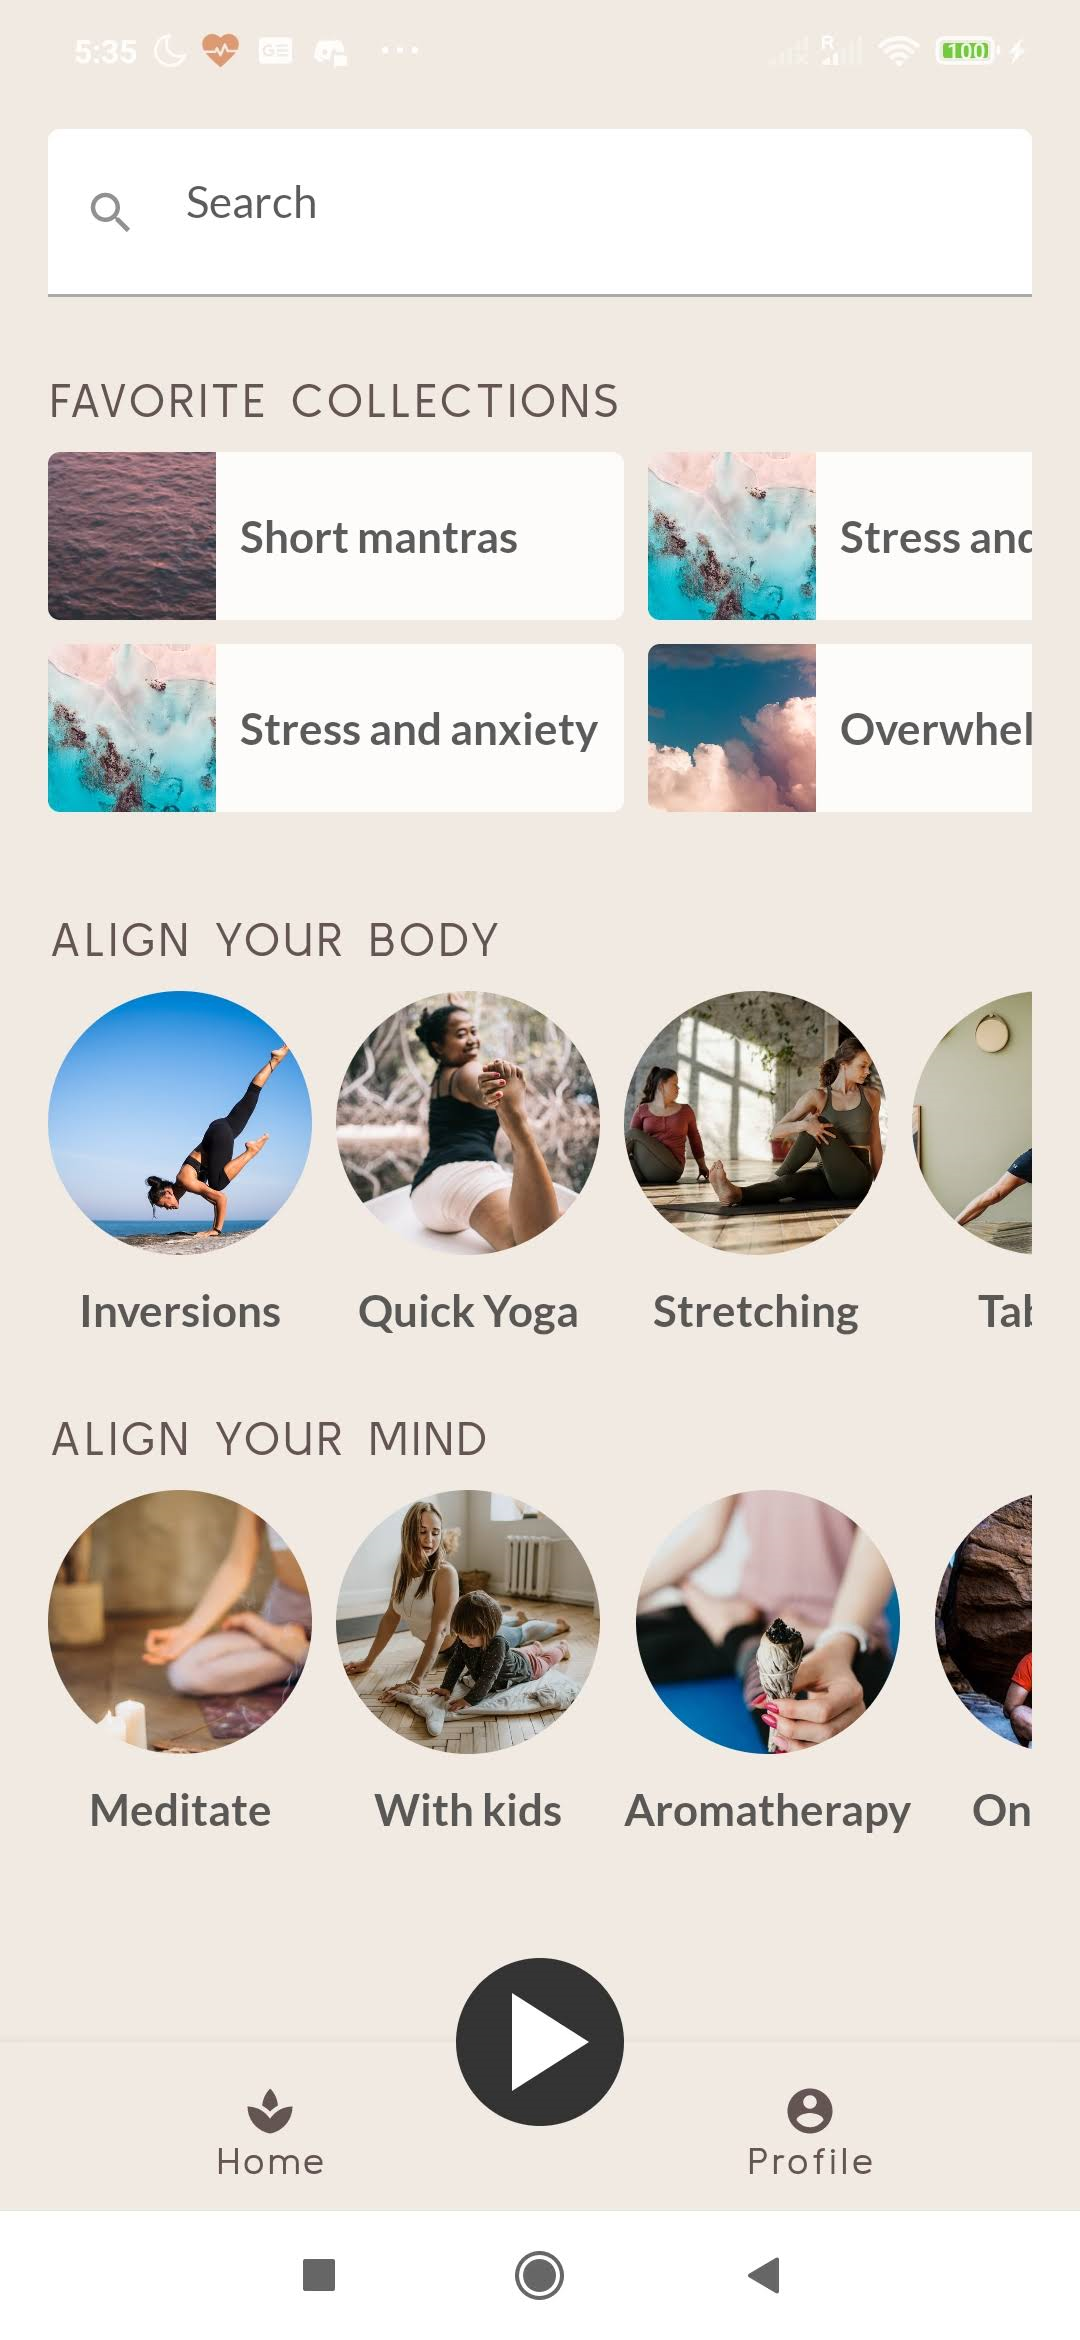
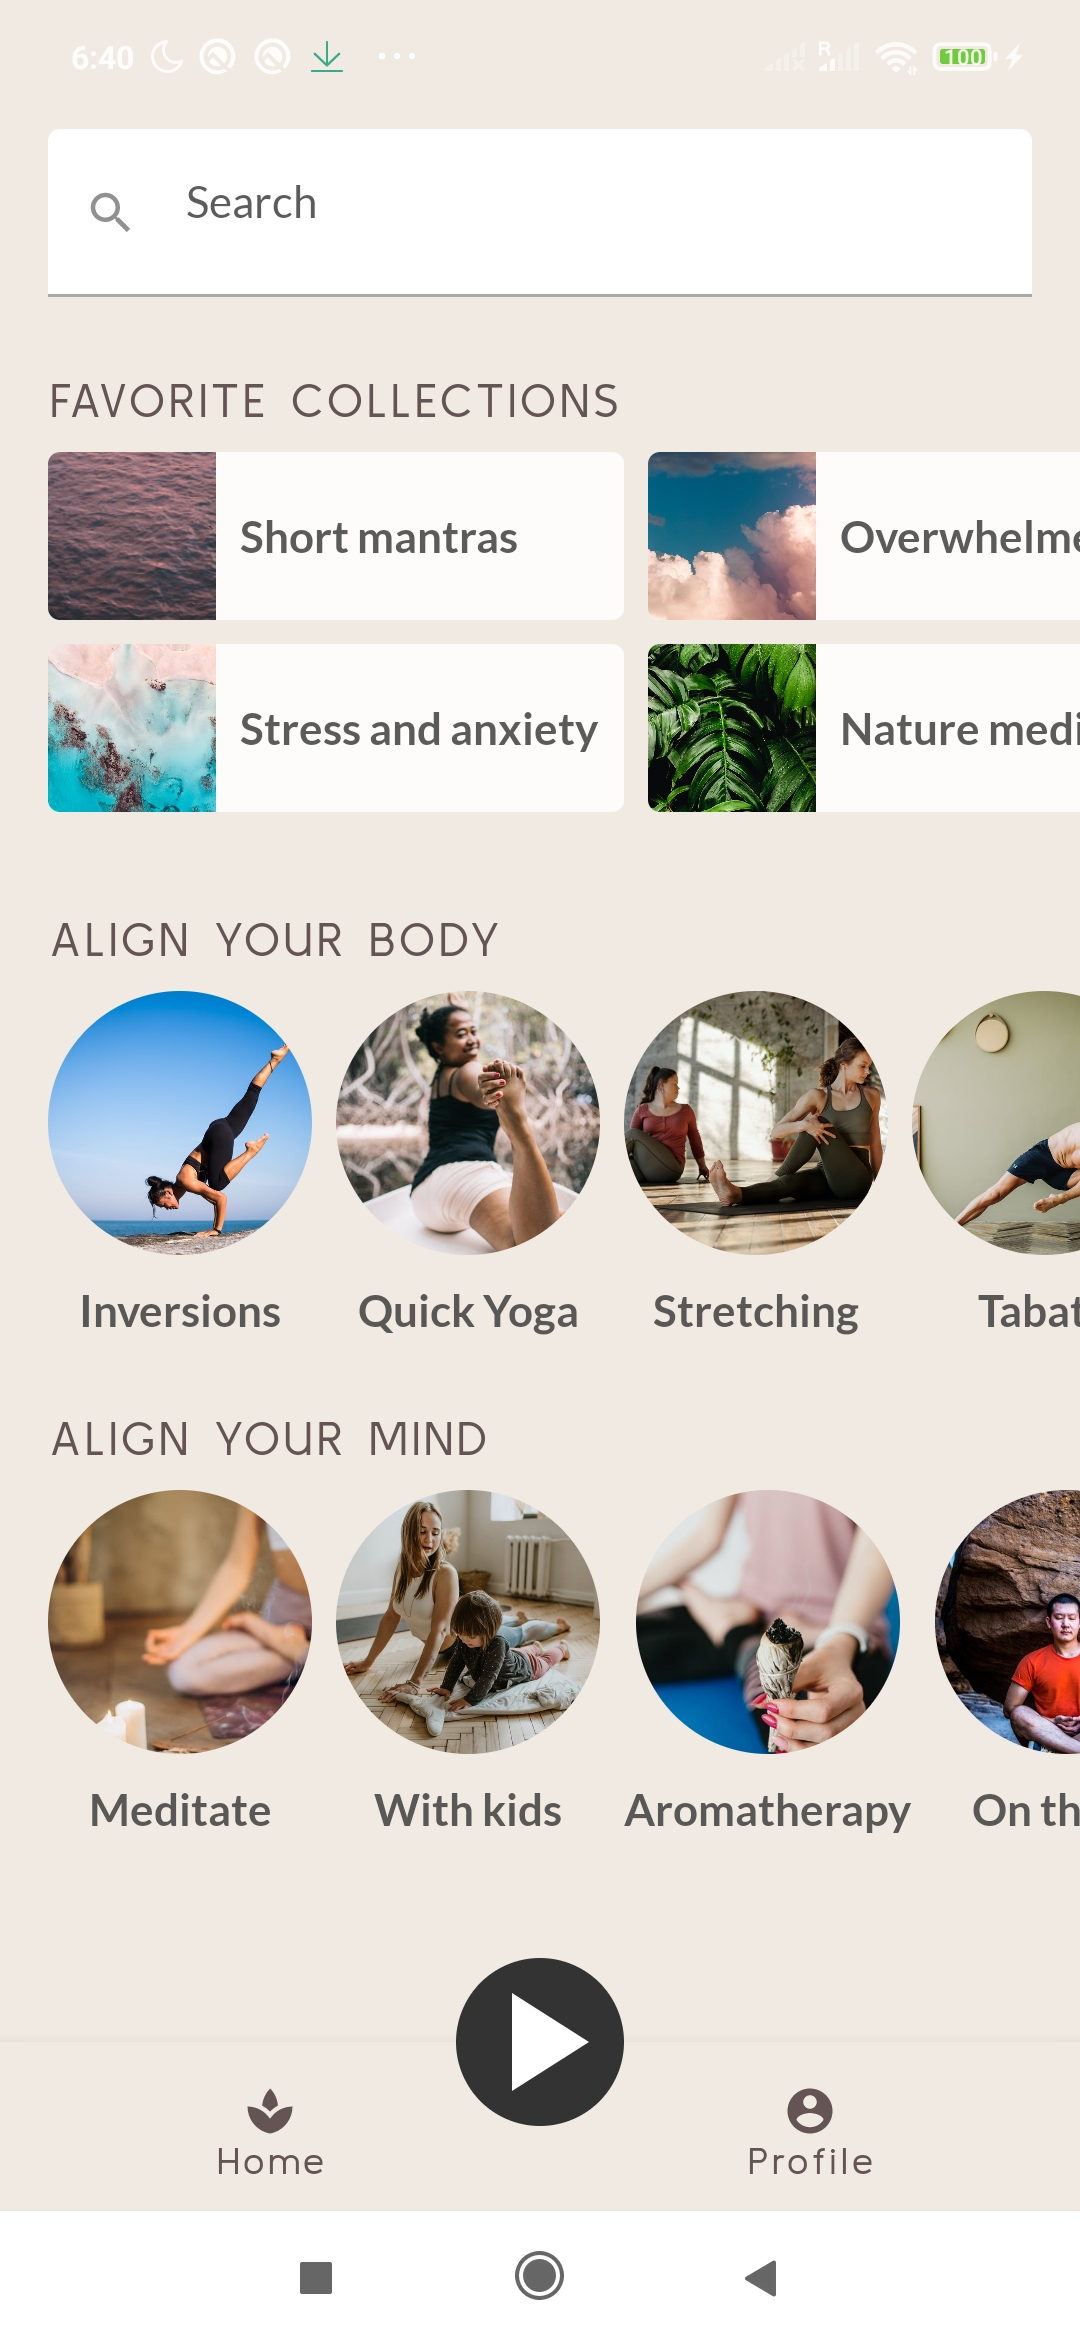
Small Optimizations

diff --git a/app/src/main/java/com/example/androiddevchallenge/ui/Home.kt b/app/src/main/java/com/example/androiddevchallenge/ui/Home.kt
@@ -202,10 +202,10 @@ fun Home() {
                             if (it < 3)
                                 Column {
                                     Spacer(modifier = Modifier.size(8.dp))
-                                    val item1 = favoriteCollections[it]
+                                    val item1 = favoriteCollections[it * 2]
                                     FavoriteItem(item1.title, item1.image)
                                     Spacer(modifier = Modifier.size(8.dp))
-                                    val item2 = favoriteCollections[it + 1]
+                                    val item2 = favoriteCollections[it * 2 + 1]
                                     FavoriteItem(item2.title, item2.image)
                                     Spacer(modifier = Modifier.size(8.dp))
                                 }
